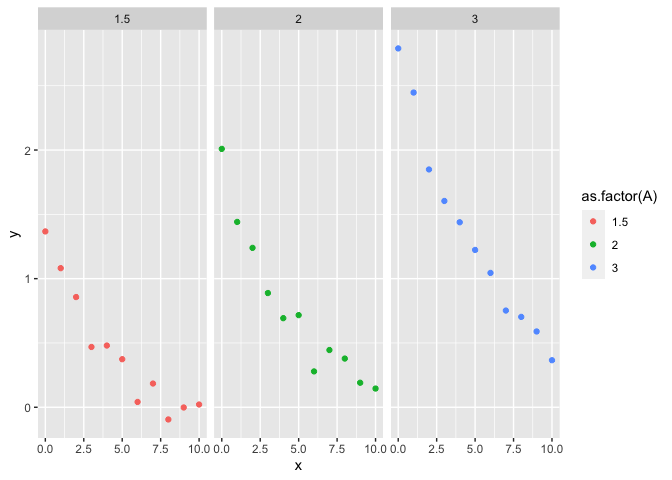
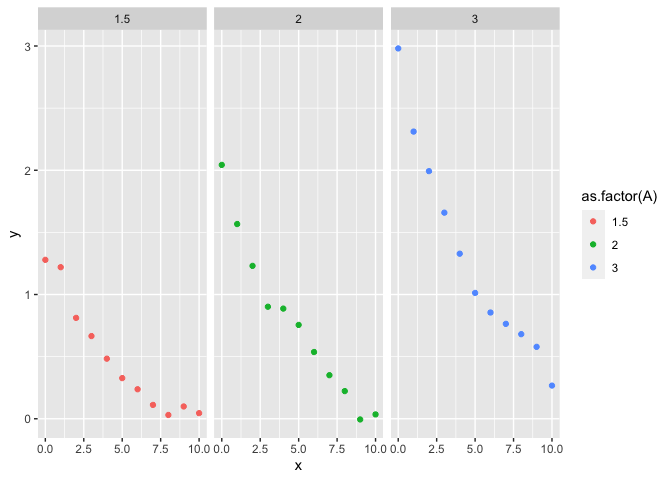
fix prediction range to 0:10

diff --git a/guide_to_fits.md b/guide_to_fits.md
@@ -61,7 +61,7 @@ fit_data <- raw_data %>%
 # Write a function to extract predictions
 
 get_preds <- function(mod) {
-  grid <- seq(0:10)
+  grid <- 0:10
   df <- data.frame(x=grid)
   preds <- predict(mod, newdata = df)
   df %>% mutate(y = preds)
